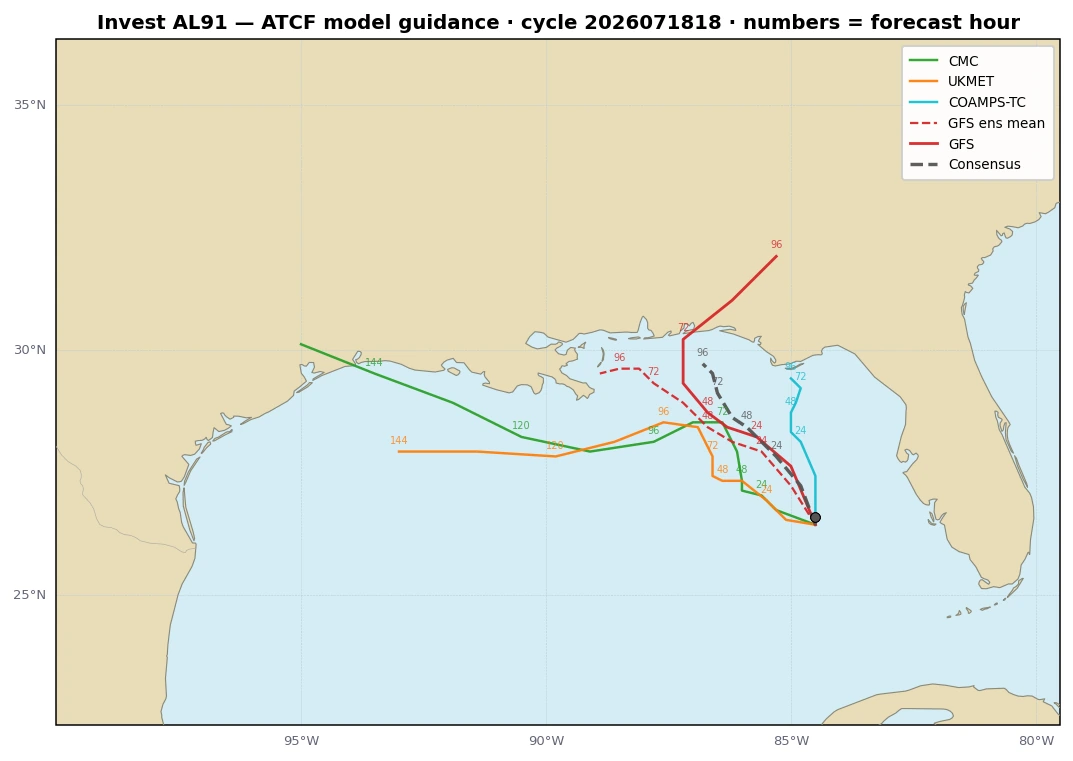
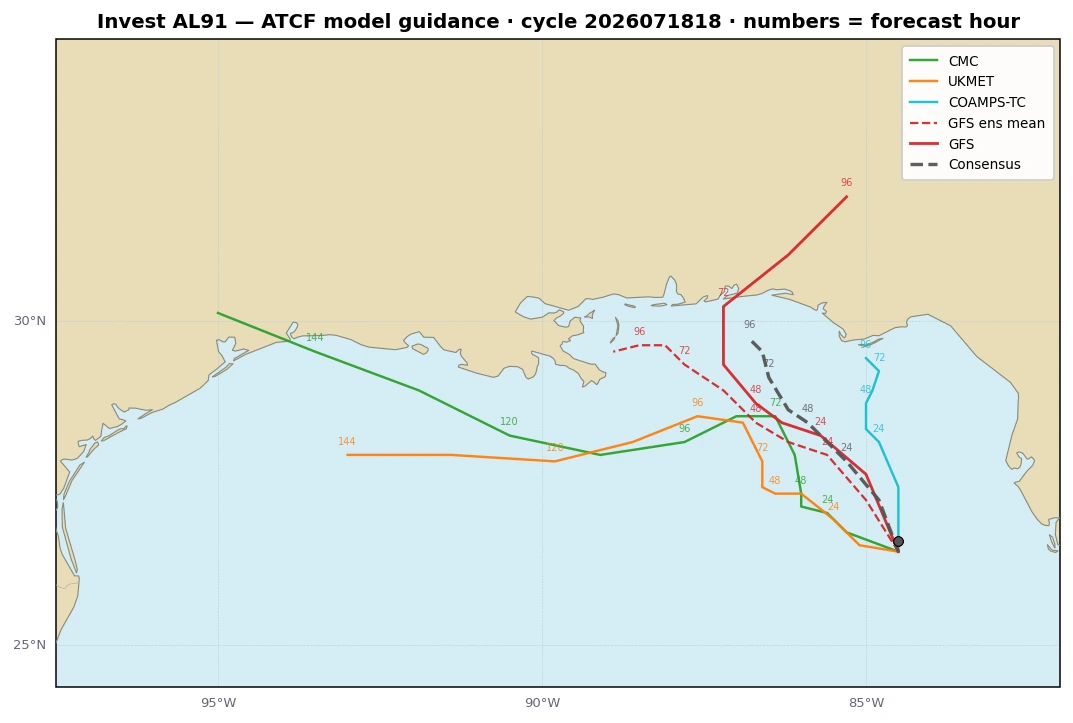
invest plotter: tighter map windows (pads 2.5/1.5 deg, smaller minimum spans)

diff --git a/scripts/tc/invest_models.py b/scripts/tc/invest_models.py
@@ -137,10 +137,10 @@ def plot_system(sysd, adeck, out_dir: Path):
     l0 = next(iter(tracks.values()))[min(next(iter(tracks.values())))][1]
     wrap = lambda lon: l0 + (((lon - l0 + 180) % 360) - 180)
     los = [wrap(p[1]) for tr in tracks.values() for p in tr.values()]
-    w0, e0 = min(los) - 5, max(los) + 5
-    s0, n0 = min(las) - 4, max(las) + 4
-    if e0 - w0 < 20: pad = (20 - (e0 - w0)) / 2; w0 -= pad; e0 += pad
-    if n0 - s0 < 14: pad = (14 - (n0 - s0)) / 2; s0 -= pad; n0 += pad
+    w0, e0 = min(los) - 2.5, max(los) + 2.5
+    s0, n0 = min(las) - 1.5, max(las) + 1.5
+    if e0 - w0 < 14: pad = (14 - (e0 - w0)) / 2; w0 -= pad; e0 += pad
+    if n0 - s0 < 10: pad = (10 - (n0 - s0)) / 2; s0 -= pad; n0 += pad
     aspect = (n0 - s0) / (e0 - w0)
     figw = 9.6
     fig = plt.figure(figsize=(figw, figw * aspect * 1.22 + 1.0), facecolor="white")
